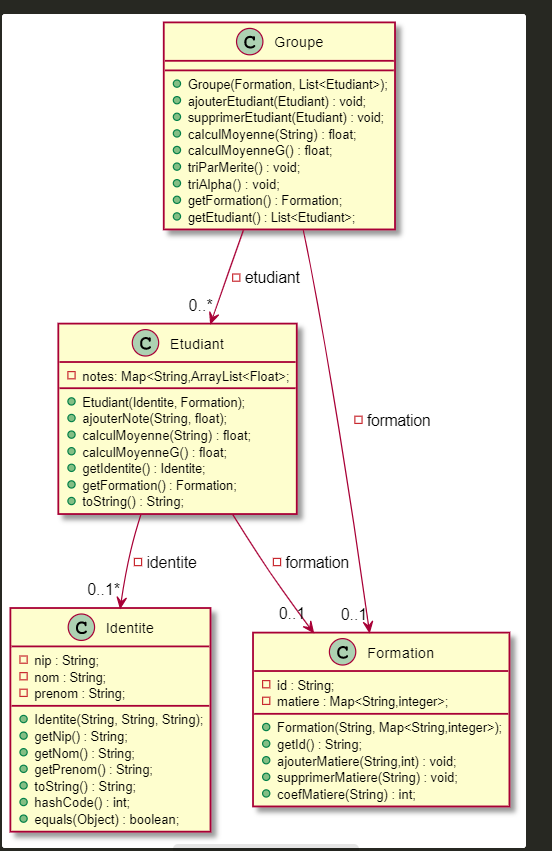
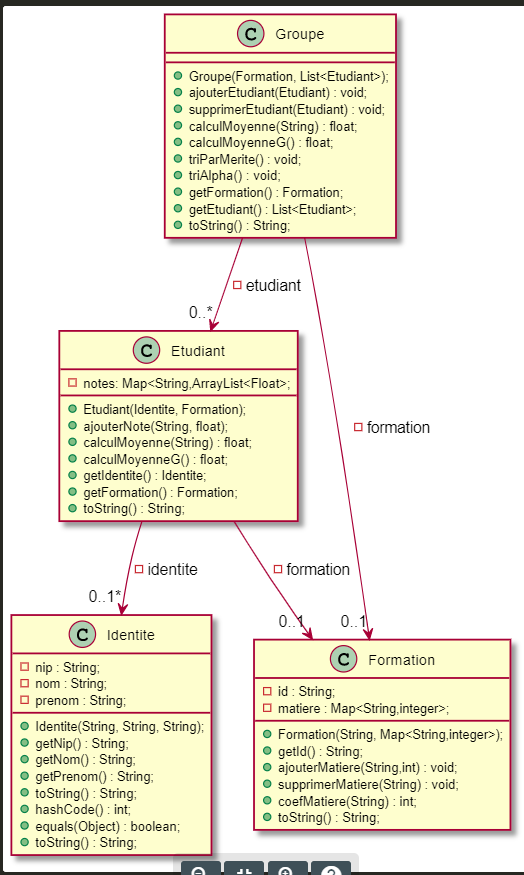
initialisation 2

diff --git a/src/Formation.java b/src/Formation.java
@@ -2,5 +2,26 @@ public class Formation{
     private String id;
     private Map<String,integer> matiere;
 
-    public Formation(String a, )
+    public Formation(String a, Map<String,integer> b){
+
+        this.id = a;
+        this.matiere = b;
+    }
+
+    public String getId(){
+
+    }
+
+    public void ajouterMatiere(String a){
+
+    }
+
+    public void supprimerMatiere(String a){
+
+
+    }
+
+    public int coefMatiere(String a){
+
+    }
 }
